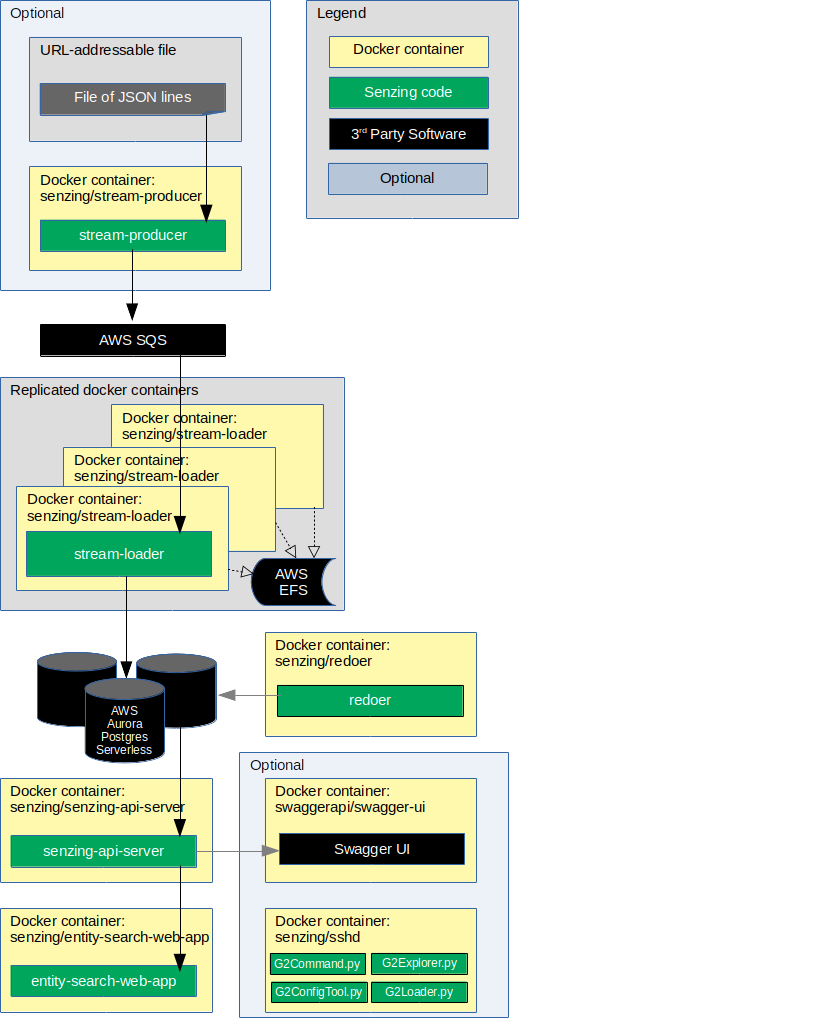
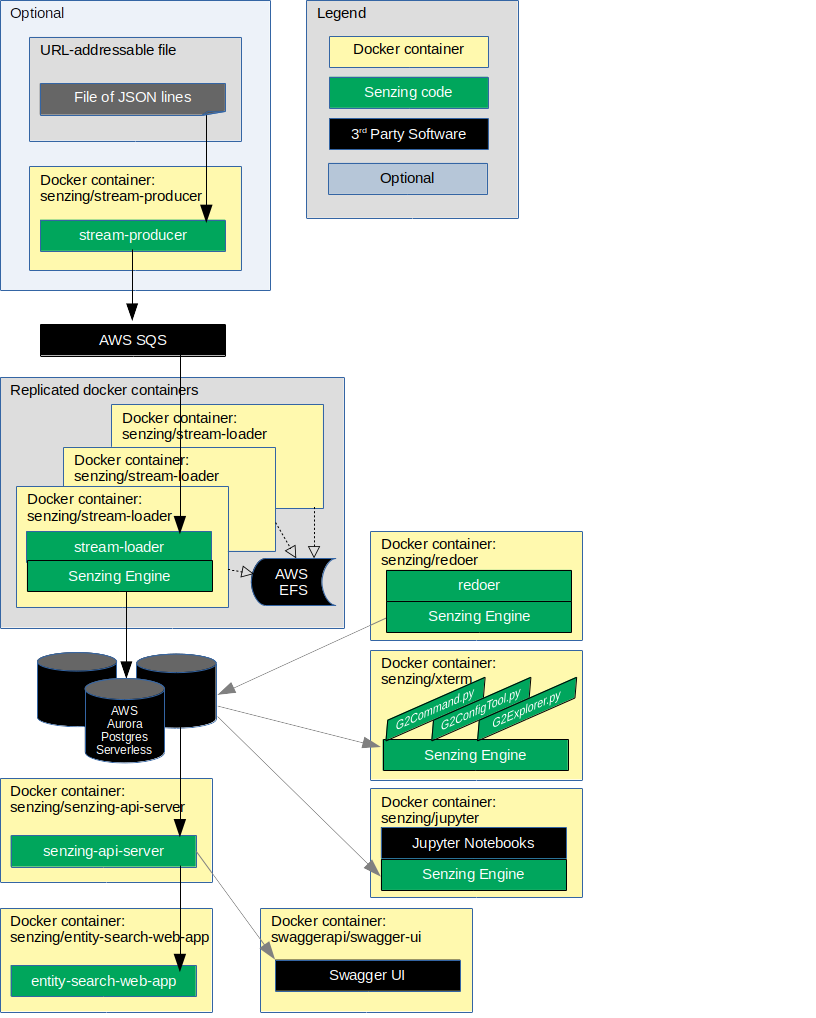
#3 Update steps

Changed region(s): [[0.0, 0.5177, 0.7353, 1.0]]

diff --git a/docs/README.md b/docs/README.md
@@ -1,4 +1,4 @@
-# Cloudformation: aws-cloudformation-ecs-poc-simple
+# aws-cloudformation-ecs-poc-simple
 
 ## Synopsis
 
@@ -40,11 +40,13 @@ Arrows represent data flow.
 This docker formation brings up the following docker containers:
 
 1. *[senzing/entity-web-search-app](https://github.com/Senzing/entity-search-web-app)*
+1. *[senzing/jupyter](https://github.com/Senzing/docker-jupyter)*
 1. *[senzing/redoer](https://github.com/Senzing/redoer)*
 1. *[senzing/senzing-api-server](https://github.com/Senzing/senzing-api-server)*
 1. *[senzing/sshd](https://github.com/Senzing/docker-sshd)*
 1. *[senzing/stream-loader](https://github.com/Senzing/stream-loader)*
 1. *[senzing/stream-producer](https://github.com/Senzing/stream-producer)*
+1. *[senzing/xterm](https://github.com/Senzing/docker-xterm)*
 
 Help for
 [aws-cloudformation-ecs-poc-simple](https://github.com/Senzing/aws-cloudformation-ecs/tree/main/cloudformation/aws-cloudformation-ecs-poc-simple).
@@ -89,12 +91,12 @@ describing where we can improve.   Now on with the show...
 
 ### Launch AWS Cloudformation
 
-1. Visit [AWS Cloudformation with Senzing template](https://console.aws.amazon.com/cloudformation/home#/stacks/new?templateURL=https://s3-us-west-1.amazonaws.com/cf-templates-xoqvergspzx7-us-west-1/2020357pXi-cloudformation.yaml).
+1. Visit [AWS Cloudformation with Senzing template](https://console.aws.amazon.com/cloudformation/home#/stacks/new?stackName=senzing-poc&templateURL=https://s3-external-1.amazonaws.com/cf-templates-xoqvergspzx7-us-east-1/2020365v5b-cloudformation.yaml)
 1. In lower-right, click on "Next" button.
 1. In **Specify stack details**
     1. In **Stack name**
         1. Enter an identifier of your choosing.
-           Example: "senzing-demo"
+           Example: "senzing-poc"
     1. In **Parameters**
         1. In **Senzing installation**
             1. Accept the End User Licence Agreement
@@ -271,7 +273,9 @@ TODO:
 
 ### SwaggerUrl
 
-TODO:
+1. **Synopsis:**
+   A URL showing how to reach the
+   [Swagger User Interface](https://github.com/swagger-api/swagger-ui).
 
 ### WebAppUrl
 
@@ -281,4 +285,6 @@ TODO:
 
 ### XtermUrl
 
-TODO:
+1. **Synopsis:**
+   A URL showing how to reach the
+   [Senzing Xterm](https://github.com/Senzing/docker-xterm).

diff --git a/CHANGELOG.md b/CHANGELOG.md
@@ -6,9 +6,9 @@ The format is based on [Keep a Changelog](https://keepachangelog.com/en/1.0.0/),
 [markdownlint](https://dlaa.me/markdownlint/),
 and this project adheres to [Semantic Versioning](https://semver.org/spec/v2.0.0.html).
 
-## [0.2.0] - 2020-12-30
+## [0.1.0] - 2020-12-30
 
-### Added to 0.2.0
+### Added to 0.1.0
 
 - Base functionality
 - For testing, all services active
